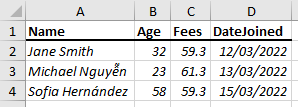
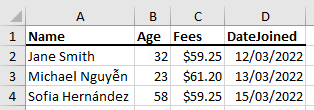
Make table cell styling more powerful. Upversion.

diff --git a/README.md b/README.md
@@ -585,11 +585,12 @@ You can create a table of cells from an instance or a sequence of any type havin
 Use `Table.fromInstance` or `Table.fromSeq` and provide
 
 - an orientation (`Table.Direction.Horizontal` or `Table.Direction.Vertical`)
-- a style for heading cells (the field names)
-- a style for body cells (the field values)
+- a function which, given an index and a field name, returns a list of properties for styling. (This style can be an empty list.)
 - the instance or sequence.
 
 In horizontal tables, the values for each record appear beside one another.  In vertical tables the values for a record appear below one another.
+
+Calls to the cell style function are given 0 for the header, 1 for the first (or only) data row, 2 for the next and so on.
 
 Tables don't automatically autofit - you'll have to do that (if you want) after the table is built.
 
@@ -598,36 +599,48 @@ open System
 open ClosedXML.Excel
 open FsExcel
 
-type MyRecord =  {
+type JoiningInfo =  {
     Name : string
     Age : int
     Fees : decimal
     DateJoined : DateTime
 }
 
+// This works just as well if these are anonymous record instances,
+// eg. {| Name = "..."; ... |}
 let records = [
     { Name = "Jane Smith"; Age = 32; Fees = 59.25m; DateJoined = DateTime(2022, 3, 12) }
     { Name = "Michael Nguyễn"; Age = 23; Fees = 61.2m; DateJoined = DateTime(2022, 3, 13) }
     { Name = "Sofia Hernández"; Age = 58; Fees = 59.25m; DateJoined = DateTime(2022, 3, 15) }
 ]
 
-let headingStyleHorizontal = [
-    Border(Border.Bottom XLBorderStyleValues.Medium)
-    FontEmphasis Bold
-]
+let cellStyleVertical index name =
+    if index = 0 then
+        [ FontEmphasis Bold ]
+    elif name = "Fees" then
+        [ FormatCode "$0.00" ]
+    else
+        []
 
-let headingStyleVertical =  [ FontEmphasis Bold ]
-
-let bodyStyle = [ FontEmphasis Italic ]
+let cellStyleHorizontal index name =
+    if index = 0 then
+        [
+            Border(Border.Bottom XLBorderStyleValues.Medium)
+            FontEmphasis Bold
+        ]
+    elif name = "Fees" then
+        [ FormatCode "$0.00" ]
+    else
+        []
 
 records
-|> Table.fromSeq Table.Direction.Vertical headingStyleVertical bodyStyle
+|> Table.fromSeq Table.Direction.Vertical cellStyleVertical
 |> fun cells -> cells @ [ AutoFit All ]
 |> Renderer.Render
 |> fun wb -> wb.SaveAs "/temp/RecordSequenceVertical.xlsx"
 
 records
-|> Table.fromSeq Table.Direction.Horizontal headingStyleHorizontal bodyStyle
+|> Table.fromSeq Table.Direction.Horizontal cellStyleHorizontal
 |> fun cells -> cells @ [ AutoFit All ]
 |> Renderer.Render
 |> fun wb -> wb.SaveAs "/temp/RecordSequenceHorizontal.xlsx"
@@ -637,13 +650,13 @@ records
 |> Option.iter (fun r ->
 
     r 
-    |> Table.fromInstance Table.Direction.Vertical headingStyleVertical bodyStyle
+    |> Table.fromInstance Table.Direction.Vertical cellStyleVertical
     |> fun cells -> cells @ [ AutoFit All ]
     |> Renderer.Render
     |> fun wb -> wb.SaveAs "/temp/RecordInstanceVertical.xlsx"    
 
     r 
-    |> Table.fromInstance Table.Direction.Horizontal headingStyleHorizontal bodyStyle
+    |> Table.fromInstance Table.Direction.Horizontal cellStyleHorizontal
     |> fun cells -> cells @ [ AutoFit All ]
     |> Renderer.Render
     |> fun wb -> wb.SaveAs "/temp/RecordInstanceHorizontal.xlsx")
